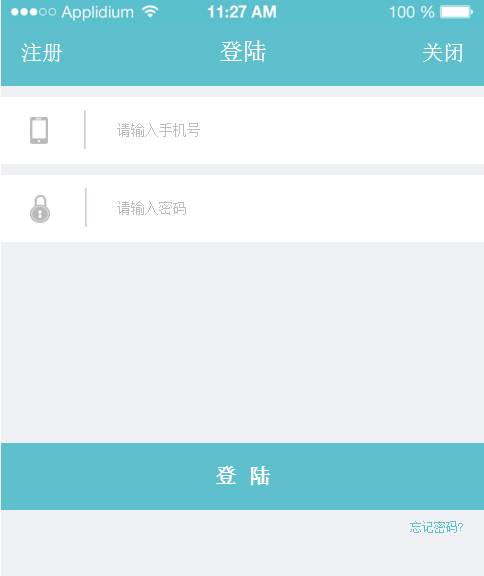
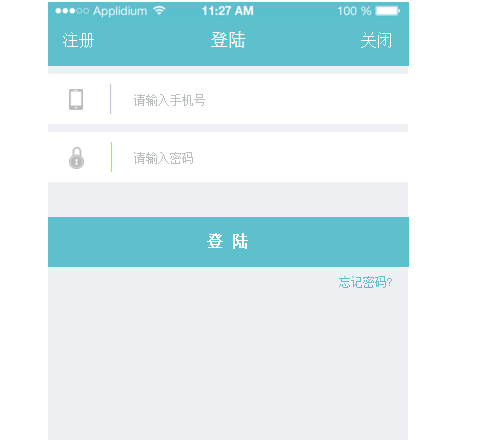
Add files via upload

diff --git a/修真院/index/登陆.html b/修真院/index/登陆.html
@@ -49,14 +49,14 @@
 
 
 		.close{
-			    text-decoration: none;
-				font-size: 32px;
-  				font-family: "STHeitiSC";
- 				color: rgb(255, 255, 255);
- 				line-height: 0.351;
-  				position: absolute;
-  				right: 30px;
-  				top: 72px;
+			text-decoration: none;
+		    font-size: 32px;
+  			font-family: "STHeitiSC";
+ 			color: rgb(255, 255, 255);
+ 			line-height: 0.351;
+  			position: absolute;
+  			right: 30px;
+  			top: 72px;
  					
 
 		}
@@ -138,18 +138,13 @@
 
 
 
-
-
-
-
-
 		.bluebutton{
 			width: 722px;
 			height: 100px;
 			background-color: #5fc0cd;
 			color: white;
 			border: none;
-			margin-top: 300px;
+			margin-top: 70px;
 			font-size: 2em;
 			font-weight: bold;
 
